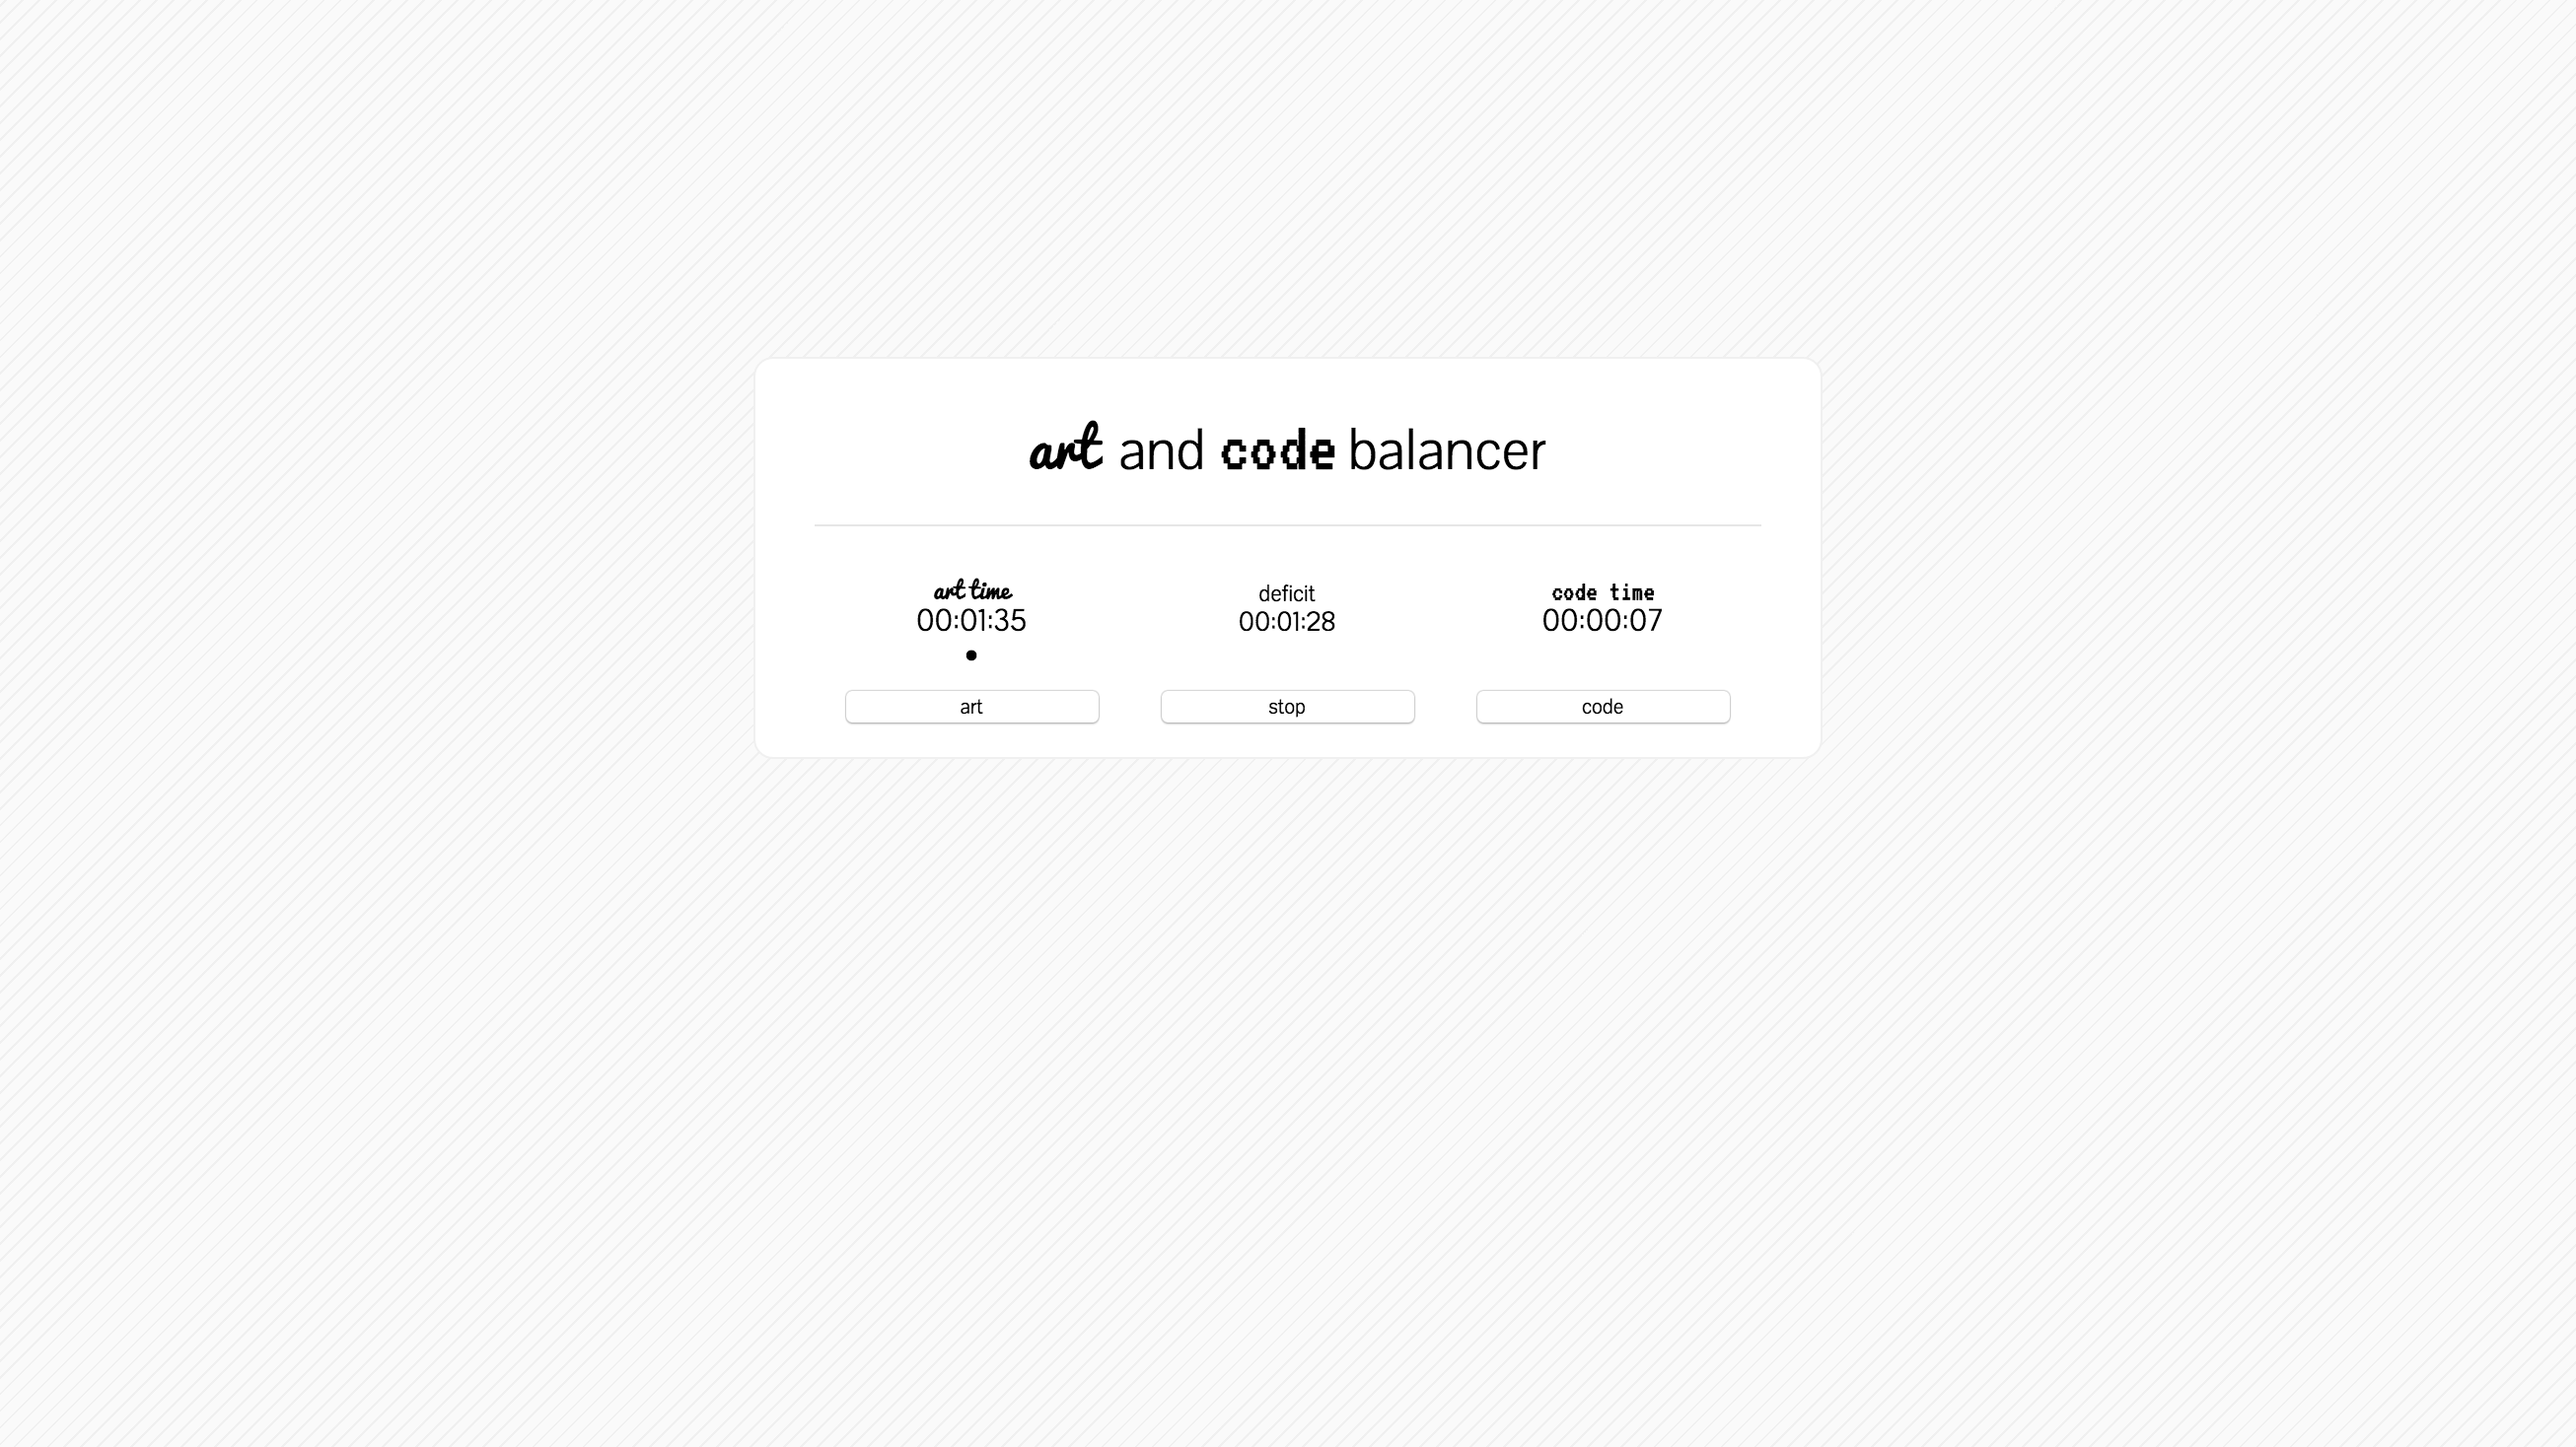
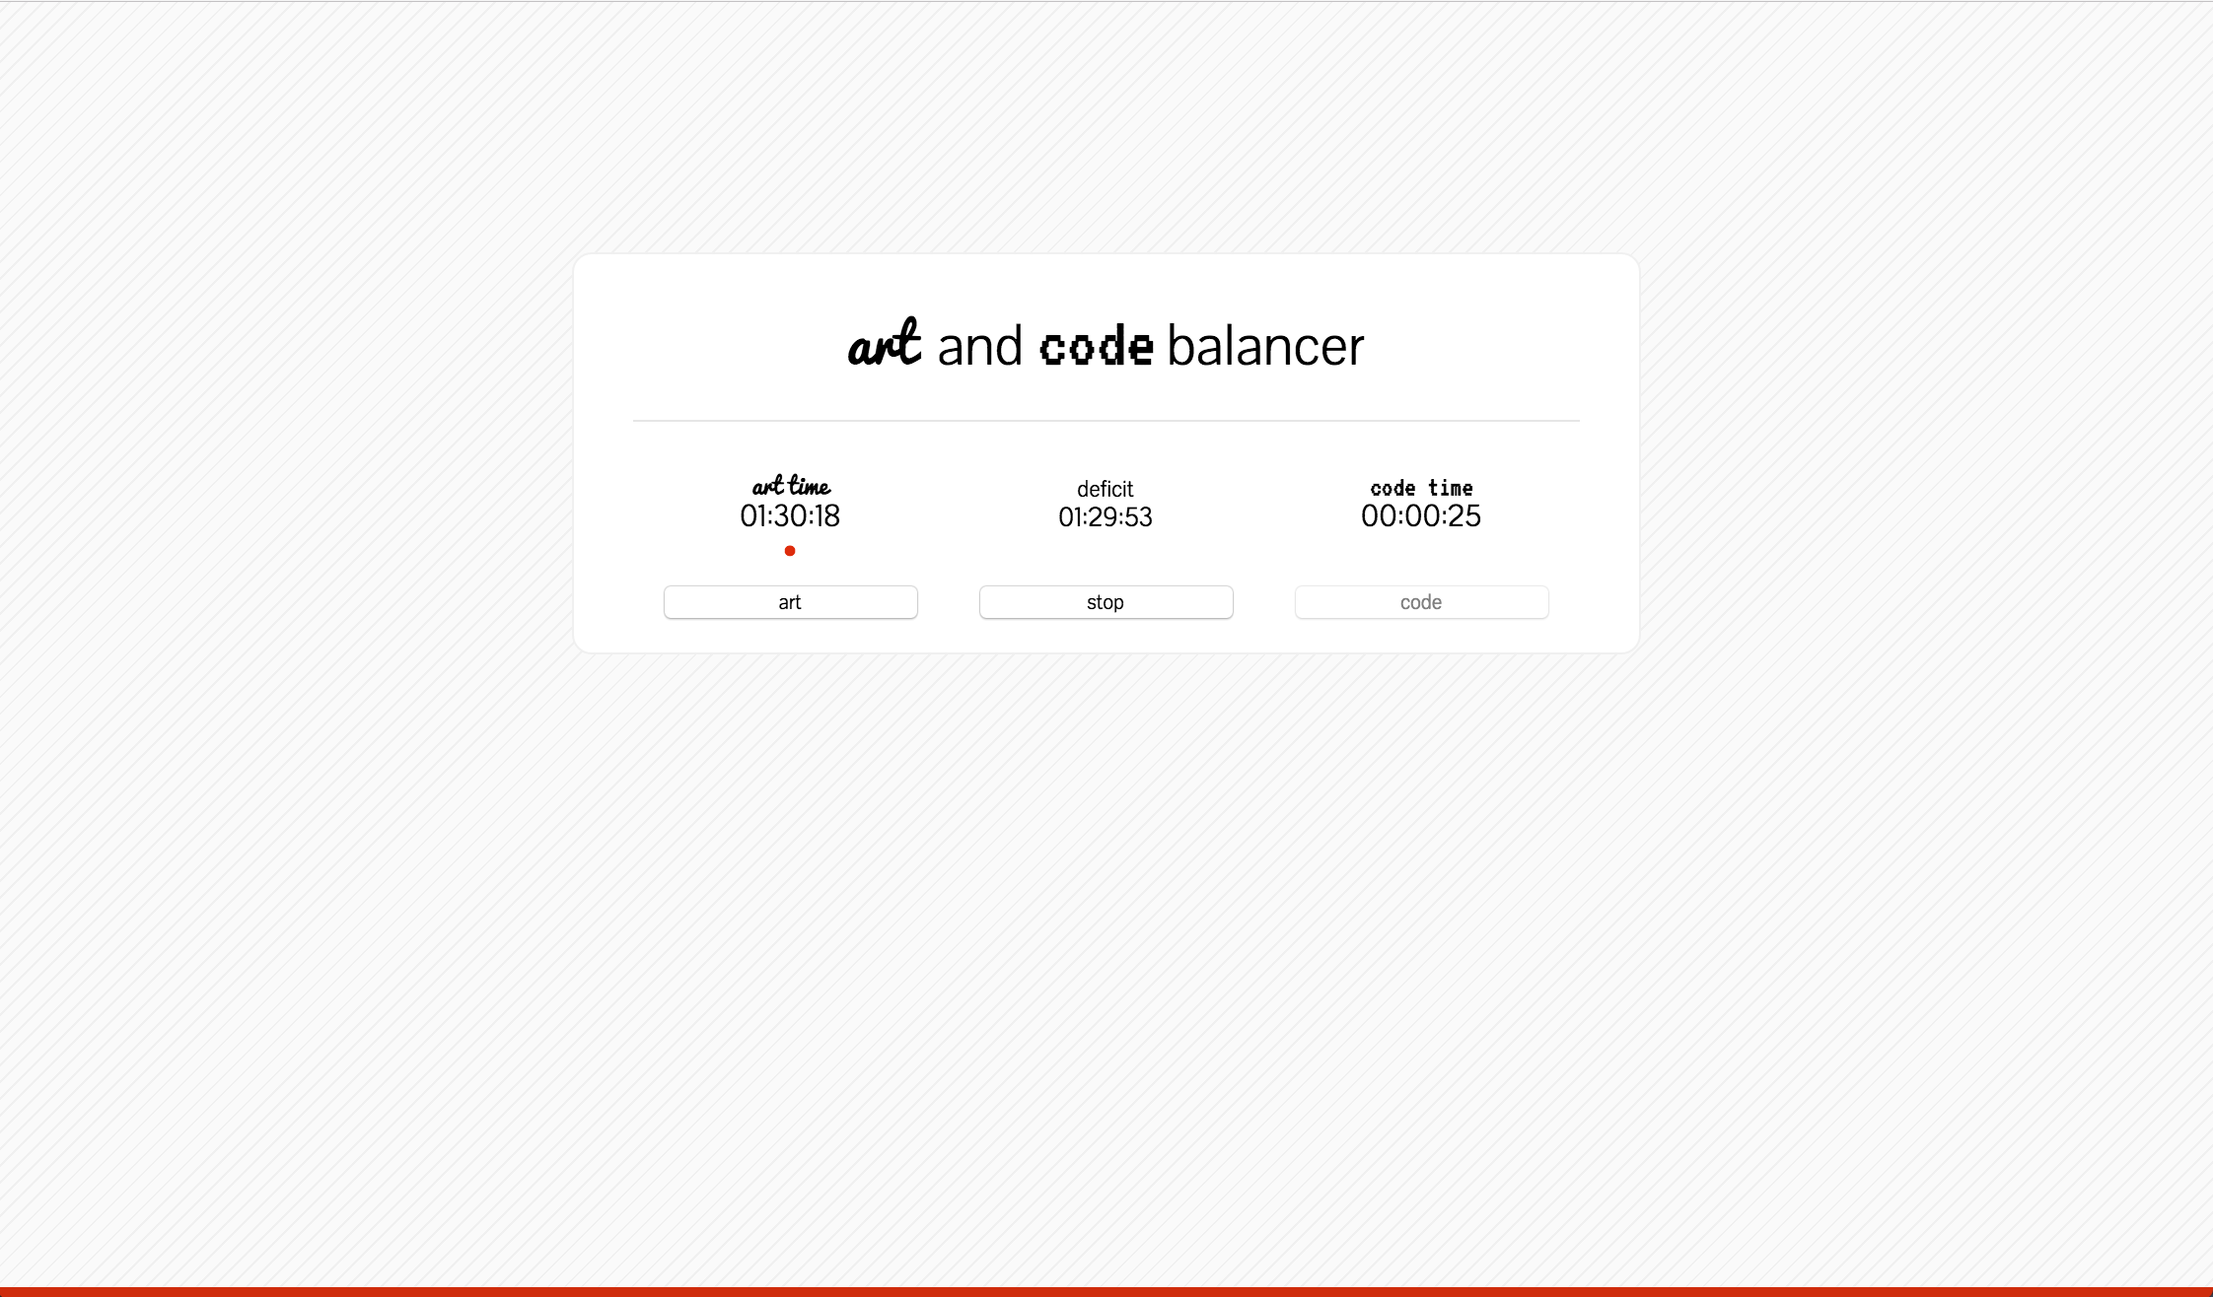
Add footer.

diff --git a/balancer.html b/balancer.html
@@ -8,34 +8,36 @@
     <title>balancer</title>
   </head>
 <body>
-    <div class = "background-container">
-      <div class = "main-container">
-        <div class = "title">
-          <span class = "art-title">art</span> and <span class = "code-title">code</span> balancer
+  <div class = "background-container">
+    <div class = "main-container">
+      <div class = "title">
+        <span class = "art-title">art</span> and <span class = "code-title">code</span> balancer
+      </div>
+      <hr>
+      <div class = "content-container">
+        <div class = "content-container-column">
+          <div class = "column-label-art">art time</div>
+          <div class = "column-time" id="art-time"> </div>
+          <div class = "deficit-icon" id="deficit-art"></div>
+          <button class = "button" id="start-art" type="button">art</button>
         </div>
-        <hr>
-        <div class = "content-container">
-          <div class = "content-container-column">
-            <div class = "column-label-art">art time</div>
-            <div class = "column-time" id="art-time"> </div>
-            <div class = "deficit-icon" id="deficit-art"></div>
-            <button class = "button" id="start-art" type="button">art</button>
-          </div>
-          <div class = "content-container-column">
-            <div class = "column-label-deficit">deficit</div>
-            <div id="current-deficit"> </div>
-            <div class = "deficit-icon" id="deficit-none"></div>
-            <button class = "button" id="stop-timer" type="button">stop</button>
-          </div>
-          <div class = "content-container-column">
-            <div class = "column-label-code">code time</div>
-            <div class = "column-time" id="coding-time"> </div>
-            <div class = "deficit-icon" id="deficit-code"></div>
-            <button class = "button" id="start-coding" type="button">code</button>
-          </div>
+        <div class = "content-container-column">
+          <div class = "column-label-deficit">deficit</div>
+          <div id="current-deficit"> </div>
+          <div class = "deficit-icon" id="deficit-none"></div>
+          <button class = "button" id="stop-timer" type="button">stop</button>
+        </div>
+        <div class = "content-container-column">
+          <div class = "column-label-code">code time</div>
+          <div class = "column-time" id="coding-time"> </div>
+          <div class = "deficit-icon" id="deficit-code"></div>
+          <button class = "button" id="start-coding" type="button">code</button>
         </div>
       </div>
     </div>
+  </div>
+</div>
+<div class = "footer"> </div>
 </div>
 </body>
 </html>

diff --git a/balancer.css b/balancer.css
@@ -2,6 +2,8 @@
 /*font-family: 'Press Start 2P', monospace;*/
 
 body {
+  margin: 0px;
+  padding: 0px;
   background-image: repeating-linear-gradient(
     -45deg,
     rgb(240, 240, 240),
@@ -96,11 +98,20 @@ body {
 }
 
 .deficit-icon {
+  color: #DE2C0C;
   font-size: 12px;
 }
 
 .column-time {
   font-size: 16px;
+}
+
+.footer {
+    background-color: #CF2C0C;
+    position: fixed;
+    bottom: 0;
+    height: 6px;
+    width: 100%;
 }
 
 hr {
